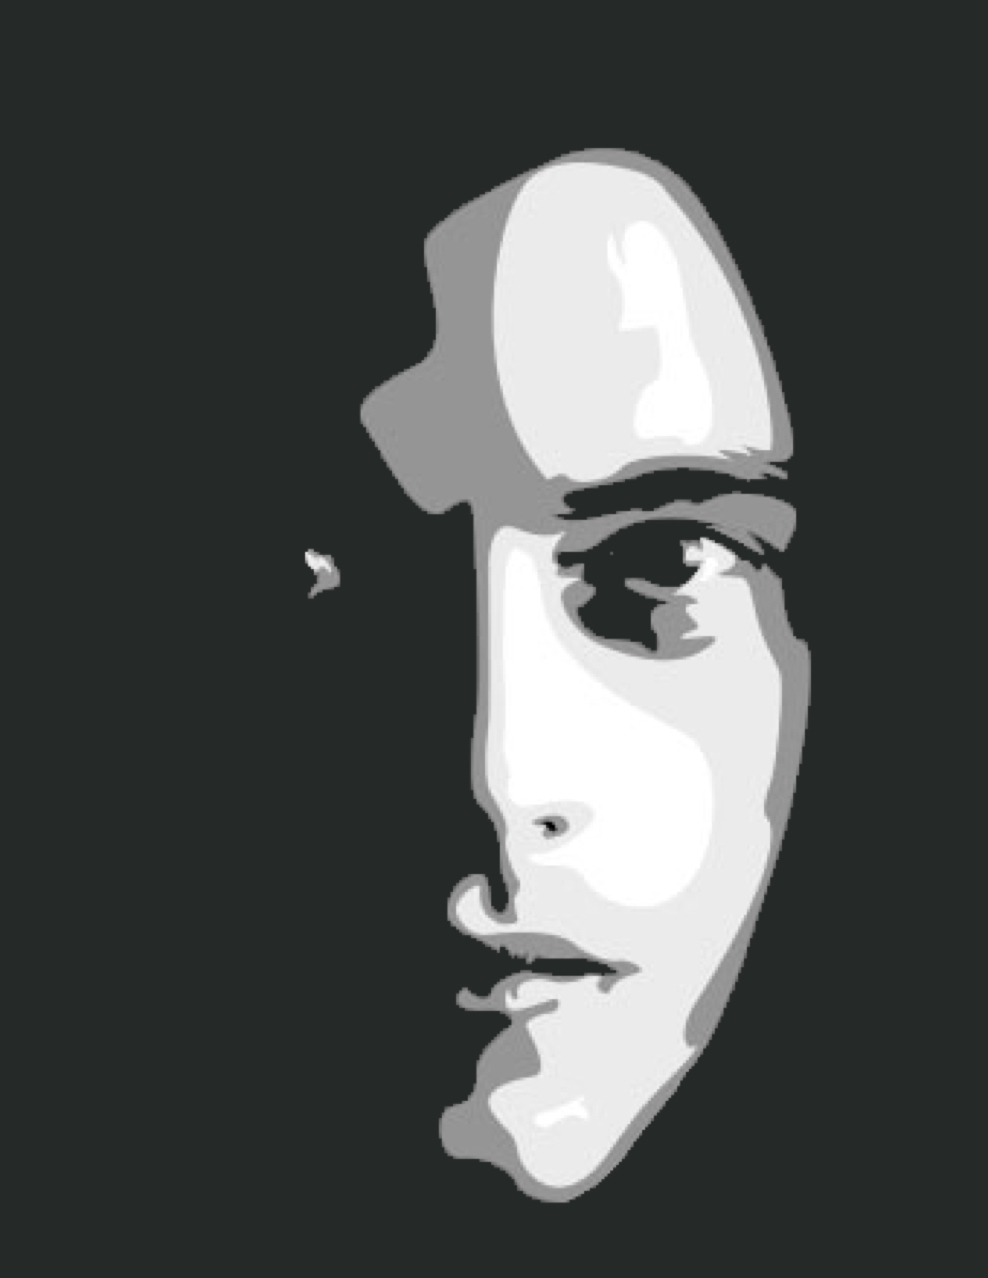
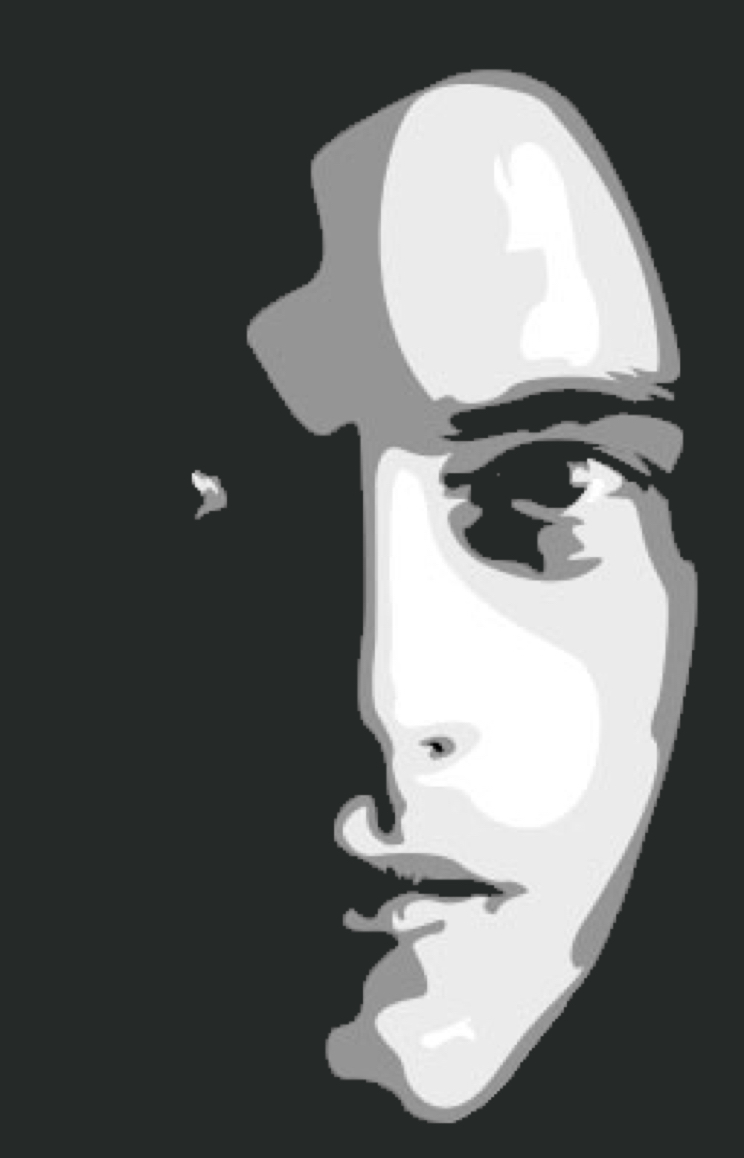
Adds more styles for the button

Changed region(s): [[0.371, 0.0622, 0.9583, 0.9948], [0.3091, 0.2176, 0.4637, 0.342], [0.2473, 0.4041, 0.3401, 0.4663]]

diff --git a/public/css/index.css b/public/css/index.css
@@ -13,21 +13,23 @@
 #hero-image-wrapper {
   display: table;
   position: relative;
-  margin: 30px auto 0 auto;
+  padding-top: 30px;
+  margin: 0 auto;
 }
 #hero-image {
   background: url("../images/hero/header.jpg");
   background-size: contain;
   background-repeat: no-repeat;
-  width: 490px;
-  height: 694px;
+  width: 372px;
+  height: 560px;
   display: table-cell;
 }
 #hero-description {
   position: absolute;
-  top: 45%;
+  top: 50%;
   transform: translateY(-50%);
   min-width: 200px;
+  margin-left: 30px;
   display: table-cell;
 }
 #hero-description,
@@ -63,7 +65,7 @@ p {
   top: 55%;
   left: 0%;
   right: 100%;
-  transition: right 0.3s ease-out;
+  transition: right 0.25s ease-out;
 }
 #email-link:hover:after {
   right: 0;

diff --git a/public/css/hero.css b/public/css/hero.css
@@ -6,21 +6,23 @@
 #hero-image-wrapper {
   display: table;
   position: relative;
-  margin: 30px auto 0 auto;
+  padding-top: 30px;
+  margin: 0 auto;
 }
 #hero-image {
   background: url("hero-image");
   background-size: contain;
   background-repeat: no-repeat;
-  width: 490px;
-  height: 694px;
+  width: 372px;
+  height: 560px;
   display: table-cell;
 }
 #hero-description {
   position: absolute;
-  top: 45%;
+  top: 50%;
   transform: translateY(-50%);
   min-width: 200px;
+  margin-left: 30px;
   display: table-cell;
 }
 #hero-description,

diff --git a/public/css/header.css b/public/css/header.css
@@ -23,7 +23,7 @@
   top: 55%;
   left: 0%;
   right: 100%;
-  transition: right 0.3s ease-out;
+  transition: right 0.25s ease-out;
 }
 #email-link:hover:after {
   right: 0;
